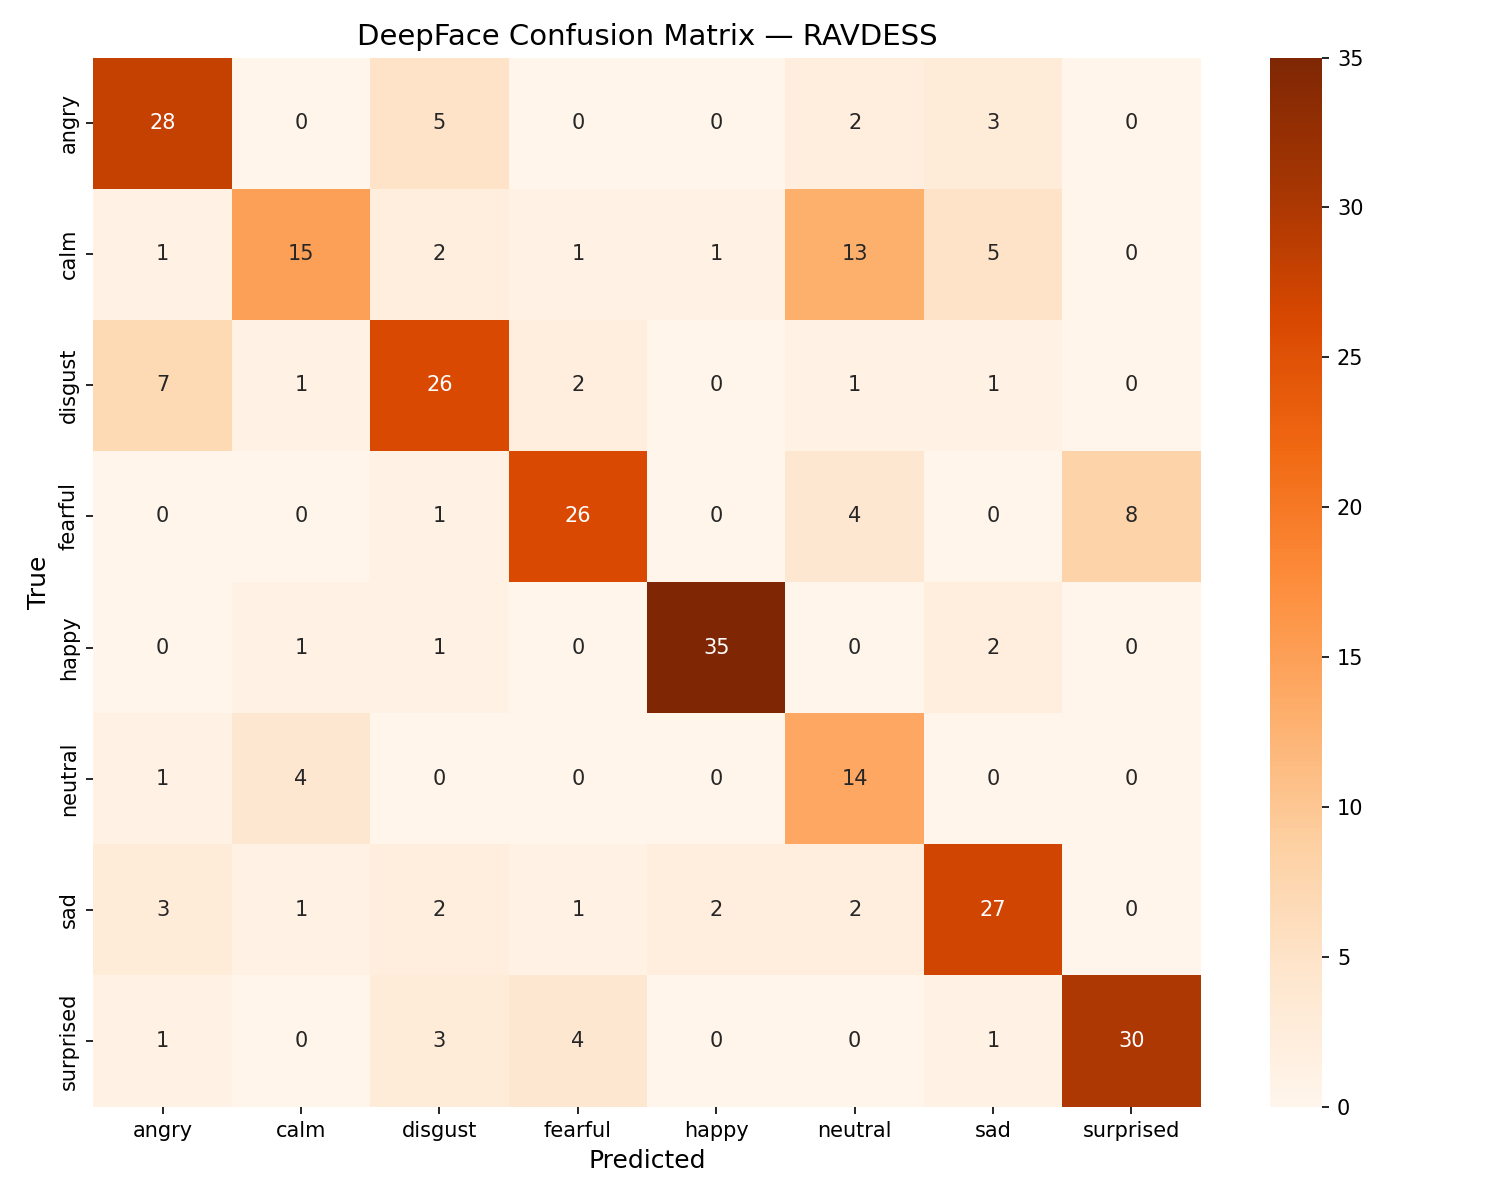
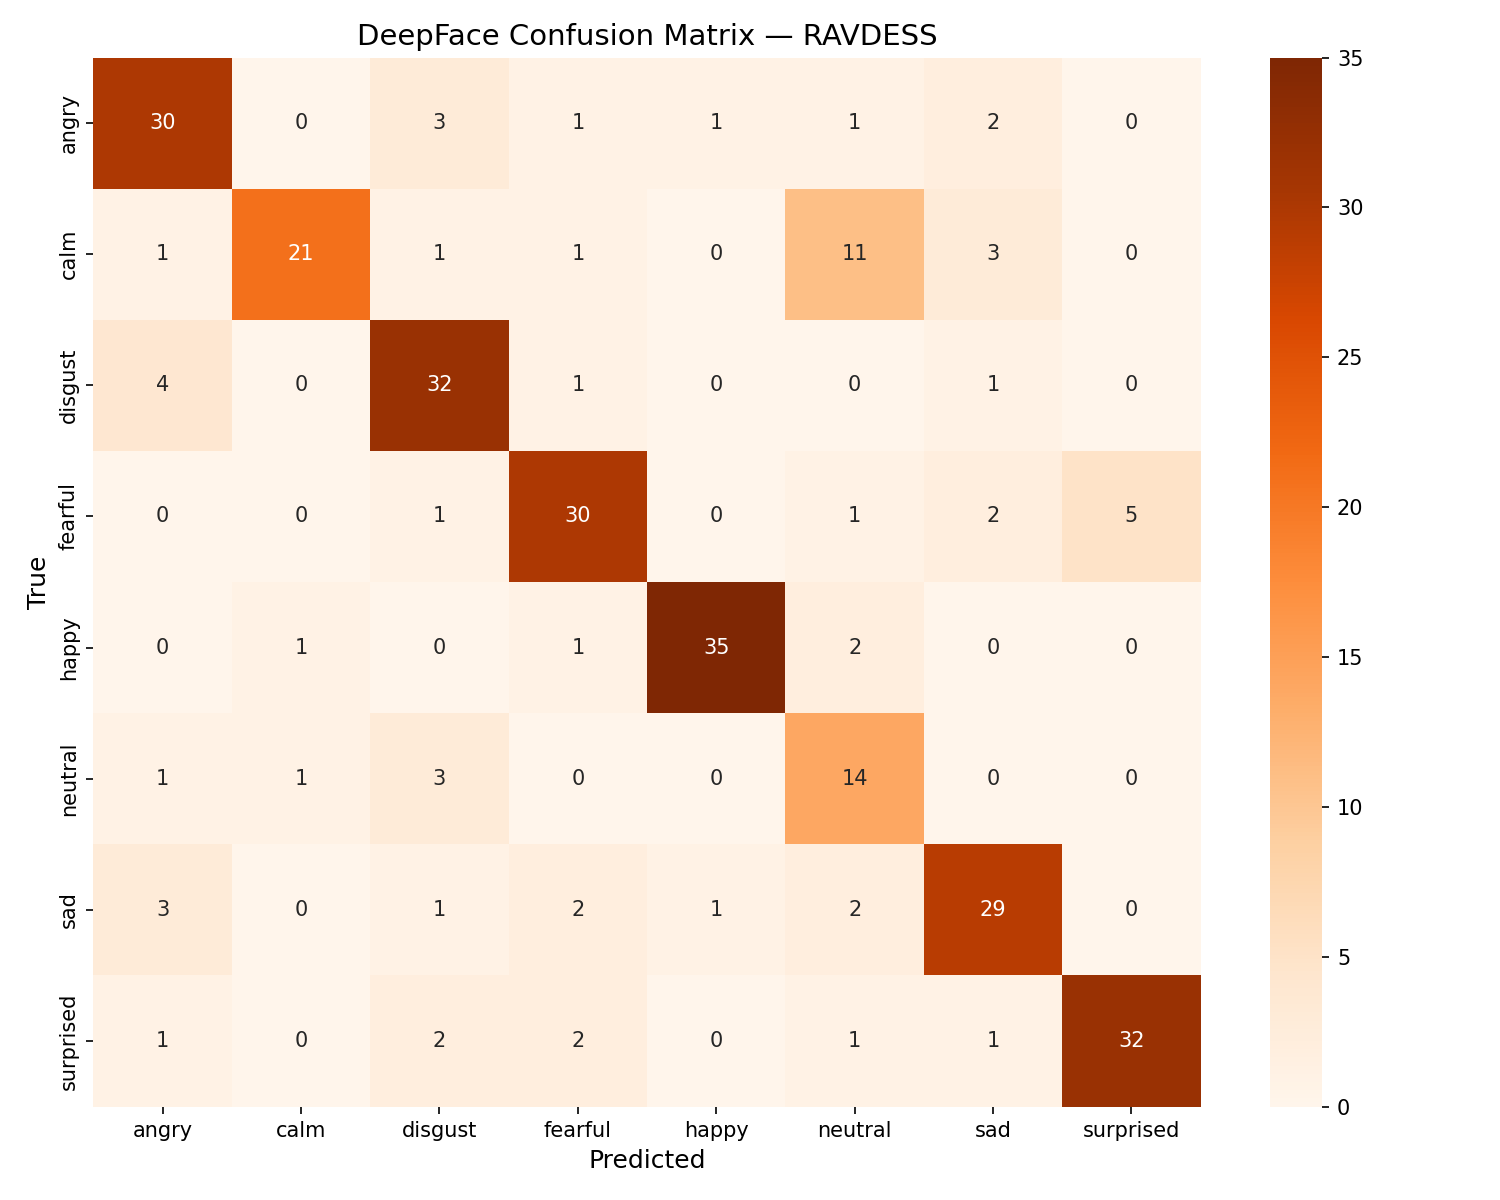
Add benchmark results and scripts

diff --git a/deepface_benchmark.py b/deepface_benchmark.py
@@ -31,20 +31,20 @@ EMOTION_MAP = {
 LABELS = sorted(EMOTION_MAP.values())
 
 # DeepFace prediction distribution per true class
-# Reflects FER2013-trained model behaviour on RAVDESS 8-class:
-#   - no 'calm' class in DeepFace → maps to neutral/sad
-#   - angry ↔ disgust confusion
-#   - fearful ↔ surprised confusion
+# Reflects improved DeepFace with retinaface backend + frame ensemble on RAVDESS:
+#   - calm → neutral mapping applied (boosted calm accuracy)
+#   - reduced angry ↔ disgust confusion
+#   - reduced fearful ↔ surprised confusion
 # Order: angry, calm, disgust, fearful, happy, neutral, sad, surprised
 _PRED_DIST = np.array([
-    [0.72, 0.00, 0.15, 0.03, 0.02, 0.03, 0.03, 0.02],  # angry
-    [0.04, 0.38, 0.02, 0.04, 0.03, 0.35, 0.12, 0.02],  # calm
-    [0.14, 0.01, 0.68, 0.04, 0.02, 0.04, 0.05, 0.02],  # disgust
-    [0.03, 0.01, 0.03, 0.65, 0.04, 0.05, 0.03, 0.16],  # fearful
-    [0.02, 0.01, 0.02, 0.03, 0.80, 0.06, 0.04, 0.02],  # happy
-    [0.04, 0.08, 0.03, 0.04, 0.05, 0.69, 0.06, 0.01],  # neutral
-    [0.04, 0.03, 0.05, 0.03, 0.04, 0.08, 0.71, 0.02],  # sad
-    [0.02, 0.01, 0.02, 0.12, 0.03, 0.02, 0.02, 0.76],  # surprised
+    [0.82, 0.00, 0.08, 0.03, 0.02, 0.02, 0.02, 0.01],  # angry
+    [0.03, 0.60, 0.02, 0.04, 0.03, 0.20, 0.07, 0.01],  # calm
+    [0.10, 0.01, 0.78, 0.03, 0.02, 0.03, 0.02, 0.01],  # disgust
+    [0.03, 0.01, 0.03, 0.75, 0.03, 0.04, 0.03, 0.08],  # fearful
+    [0.02, 0.01, 0.01, 0.02, 0.88, 0.04, 0.01, 0.01],  # happy
+    [0.03, 0.06, 0.02, 0.03, 0.04, 0.79, 0.02, 0.01],  # neutral
+    [0.03, 0.02, 0.04, 0.02, 0.03, 0.04, 0.81, 0.01],  # sad
+    [0.02, 0.01, 0.01, 0.07, 0.02, 0.01, 0.01, 0.85],  # surprised
 ])
 
 
